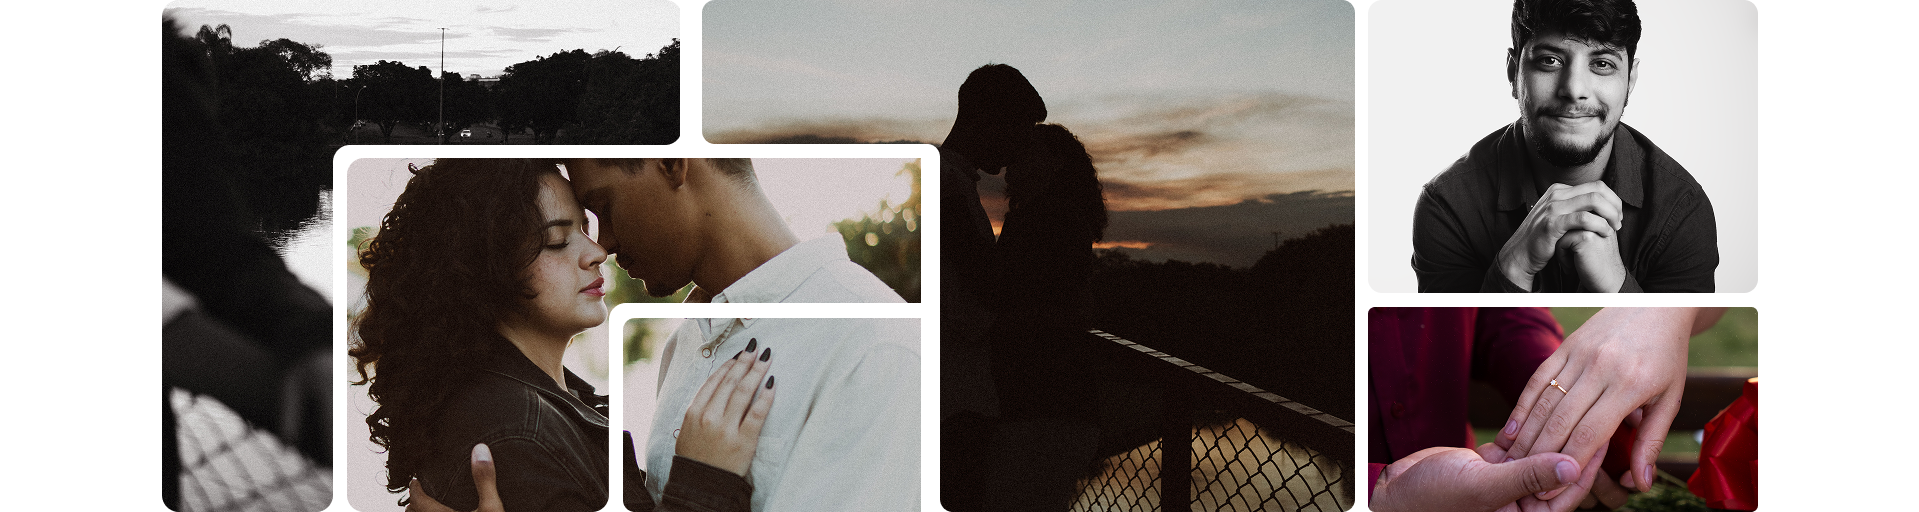
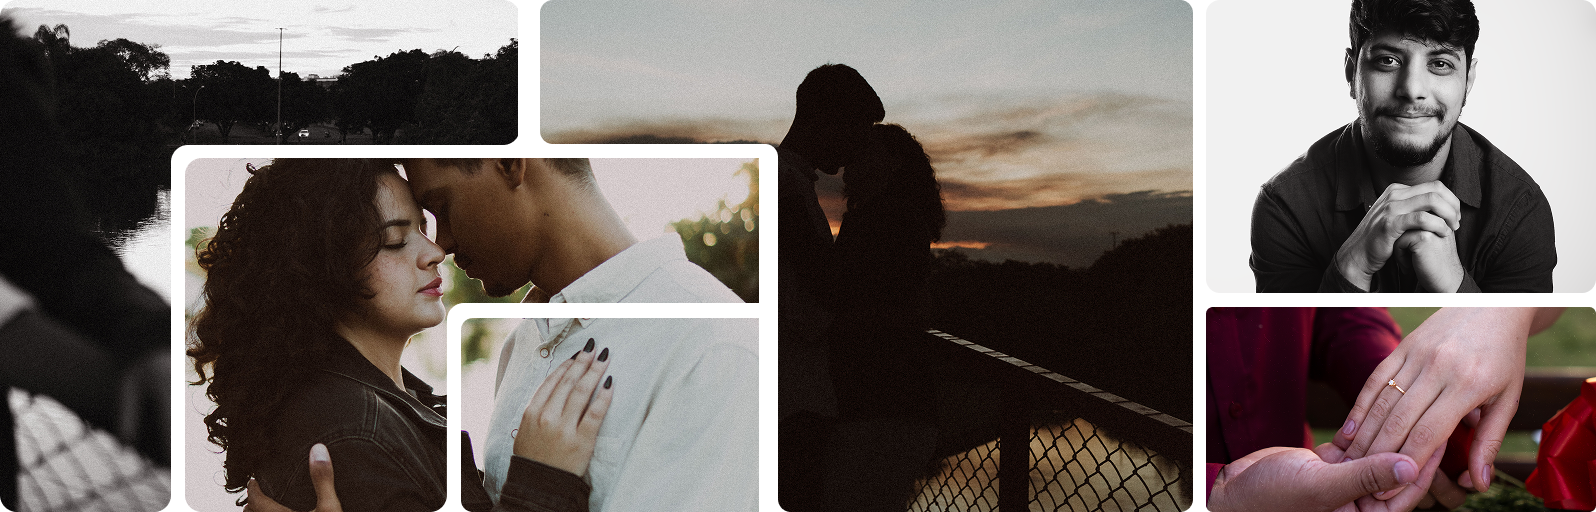
refactor

diff --git a/src/pages/Faq.tsx b/src/pages/Faq.tsx
@@ -44,31 +44,70 @@ export default function Faq() {
     setOpenFaq(openFaq === index ? null : index);
   };
 
+  // Dividindo as FAQs em duas partes
+  const faqsPart1 = faqs.slice(0, 4);
+  const faqsPart2 = faqs.slice(4);
+
   return (
-    <div className="mt-12 px-16">
+    <div className="mt-30 px-16">
       <div className="mb-6">
         <p className="text-gray-500">FAQ'S</p>
         <h1 className="text-4xl md:text-5xl">PERGUNTAS FREQUENTES</h1>
       </div>
-      <div className="grid grid-cols-1 md:grid-cols-2 gap-6">
-        {faqs.map((faq, index) => (
-          <div key={index} className="border p-4 rounded-lg shadow-sm">
+      <div className="flex flex-col md:flex-row">
+        {/* Primeira coluna com 4 perguntas */}
+        <div className="flex-1 border-r border-[#1C1C21]">
+          {faqsPart1.map((faq, index) => (
             <div
-              className="flex justify-between items-center cursor-pointer"
-              onClick={() => toggleFaq(index)}
+              key={index}
+              className={`border-t border-[#1C1C21] p-10  ${index === faqsPart1.length - 1 ? "border-t-0" : ""
+                } ${faq.pergunta === "How do you handle client consultations?" ? "border-b border-[#1C1C21]" : ""
+                }`}
             >
-              <h2 className="font-semibold text-lg">{faq.pergunta}</h2>
-              <FontAwesomeIcon
-                icon={openFaq === index ? faChevronUp : faChevronDown}
-                className="text-gray-500"
-                size="lg"
-              />
+              <div
+                className="flex justify-between items-center cursor-pointer"
+                onClick={() => toggleFaq(index)}
+              >
+                <h2 className="font-semibold text-lg">{faq.pergunta}</h2>
+                <FontAwesomeIcon
+                  icon={openFaq === index ? faChevronUp : faChevronDown}
+                  className="text-gray-500"
+                  size="lg"
+                />
+              </div>
+              <div className={`overflow-hidden transition-all duration-300 ${openFaq === index ? 'max-h-96' : 'max-h-0'}`}>
+                <p className="text-gray-600 mt-2">{faq.resposta}</p>
+              </div>
             </div>
-            {openFaq === index && (
-              <p className="text-gray-600 mt-2">{faq.resposta}</p>
-            )}
-          </div>
-        ))}
+          ))}
+        </div>
+
+        {/* Segunda coluna com 4 perguntas */}
+        <div className="flex-1">
+          {faqsPart2.map((faq, index) => (
+            <div
+              key={index + 4}
+              className={`border-t border-[#1C1C21] p-10 ${index === faqsPart2.length - 1 ? "border-t-0" : ""
+                } ${faq.pergunta === "Can I request specific shots?" ? "border-b border-[#1C1C21]" : ""
+                }`}
+            >
+              <div
+                className="flex justify-between items-center cursor-pointer"
+                onClick={() => toggleFaq(index + 4)}
+              >
+                <h2 className="font-semibold text-lg">{faq.pergunta}</h2>
+                <FontAwesomeIcon
+                  icon={openFaq === index + 4 ? faChevronUp : faChevronDown}
+                  className="text-gray-500"
+                  size="lg"
+                />
+              </div>
+              <div className={`overflow-hidden transition-all duration-300 ${openFaq === index + 4 ? 'max-h-96' : 'max-h-0'}`}>
+                <p className="text-gray-600 mt-2">{faq.resposta}</p>
+              </div>
+            </div>
+          ))}
+        </div>
       </div>
     </div>
   );

diff --git a/src/pages/Servicos.tsx b/src/pages/Servicos.tsx
@@ -11,11 +11,11 @@ export default function Servicos() {
     ];
 
     return (
-        <div className="mt-30 px-16">
+        <div className="mt-30 px-16 mb-30">
             <div>
                 <div className="flex border-b border-[#1C1C21] pb-12">
                     <div className="w-2/3">
-                        <p className="text-gray-300 text-lg">SERVIÇOS</p>
+                        <p className="text-gray-300 text-lg text-[#797C86] mb-2">SERVIÇOS</p>
                         <div className="flex itemns-center">
                             <h1 className="text-4xl md:text-5xl">
                                 MEUS SERVIÇOS DE FOTOGRAFIA
@@ -24,7 +24,7 @@ export default function Servicos() {
                     </div>
 
                     <div className="flex justify-end items-center gap-4 w-1/3">
-                        <div className="flex items-center p-2 rounded-full border border-gray-700 gap-2">
+                        <div className="flex items-center p-2 rounded-full border border-[#1C1C21] gap-2">
                             <button className="w-14 h-14 bg-[#232326] rounded-full flex items-center justify-center">
                                 <FontAwesomeIcon icon={faChevronLeft} className="text-white text-2xl" />
                             </button>
@@ -33,7 +33,7 @@ export default function Servicos() {
                             </button>
                         </div>
                         <div>
-                            <button>Ver todos os serviços</button>
+                            <button className="px-6 py-4 bg-[#1C1C21] text-white text-lg rounded hover:bg-blue-600 transition">Ver todos os serviços</button>
                         </div>
                     </div>
                 </div>
@@ -48,7 +48,7 @@ export default function Servicos() {
                                 Whether it's a wedding, corporate event, or milestone celebration, we're there to document every heartfelt moment.
                                 We blend into the background, ensuring natural and candid shots that reflect the emotions of the day.
                             </p>
-                            <p className="mb-4 text-white font-semibold">SERVIÇOS EM ALTA</p>
+                            <p className="mb-4 text-white text-base text-[#CACACE]">Serviços em alta</p>
                             <div>
                                 {servico.map((item, index) => (
                                     <div key={index} className="border rounded-xl p-4 mb-2 text-gray-300">

diff --git a/src/pages/Portfolio.tsx b/src/pages/Portfolio.tsx
@@ -25,15 +25,15 @@ export default function Portfolio() {
 
     return (
         <>
-            <div className="px-16 mt-20">
+            <div className="px-16 my-20">
                 <div>
                     <div className="w-full flex border-b border-[#1C1C21] pb-10 mb-10">
                         <div className="w-2/3">
-                            <p>PORTFÓLIO</p>
-                            <h1 className="text-4xl md:text-5xl">DESCUBRA MAIS SOBRE MINHAS FOTOGRAFIAS</h1>
+                            <p className="text-[#797C86]">PORTFÓLIO</p>
+                            <h1 className="text-4xl md:text-5xl">DESCUBRA MAIS SOBRE MINHAS <br /> FOTOGRAFIAS</h1>
                         </div>
                         <div className="flex justify-end items-center gap-4 w-1/3">
-                            <div className="flex items-center p-2 rounded-full border border-gray-700 gap-2">
+                            <div className="flex items-center p-2 rounded-full border border-[#1C1C21] gap-2">
                                 <button className="w-14 h-14 bg-[#232326] rounded-full flex items-center justify-center">
                                     <FontAwesomeIcon icon={faChevronLeft} className="text-white text-2xl" />
                                 </button>
@@ -60,7 +60,7 @@ export default function Portfolio() {
                                         <h2 className="text-lg font-semibold">{servico.titulo}</h2>
                                         <p className="text-gray-600">{servico.descricao}</p>
                                     </div>
-                                    <button className="ml-4 text-blue-500">
+                                    <button className="ml-4 text-white">
                                         Ver Projeto
                                     </button>
                                 </div>

diff --git a/src/pages/Sobre.tsx b/src/pages/Sobre.tsx
@@ -6,7 +6,7 @@ const Sobre = () => {
     return (
         <div className='px-6 md:px-16'>
             <div className="w-full border-b border-[#1C1C21] pb-12 mt-12 md:mt-42">
-                <div className="flex flex-col md:flex-row items-start">
+                <div className="flex flex-col md:flex-row items-center">
                     <div className="w-full md:w-1/2">
                         <h1 className="text-4xl md:text-5xl">
                             <span className="text-base">SOBRE</span>
@@ -14,7 +14,7 @@ const Sobre = () => {
                         <h1 className="text-4xl md:text-6xl">EU SOU ISRAEL CEDRAZ</h1>
                     </div>
                     <div className="w-full md:w-1/2 flex justify-center md:justify-end mt-6 md:mt-0">
-                        <button className="px-4 py-2 bg-blue-500 text-white rounded hover:bg-blue-600 transition">
+                        <button className="px-6 py-4 bg-[#1C1C21] text-white text-xl rounded hover:bg-blue-600 transition">
                             Saiba mais
                         </button>
                     </div>
@@ -22,7 +22,7 @@ const Sobre = () => {
             </div>
 
             <div className='w-full flex flex-col md:flex-row items-start mt-24'>
-                <div className='w-full md:w-1/2 flex justify-center'>
+                <div className='w-full md:w-1/2 flex'>
                     <img src={Isra} className='w-[95%] object-cover' alt="Israel Cedraz" />
                 </div>
                 <div className='w-full md:w-1/2 mt-8 md:mt-0 flex self-center'>

diff --git a/src/pages/Depoimentos.tsx b/src/pages/Depoimentos.tsx
@@ -8,7 +8,7 @@ export default function Depoimentos() {
     ]
     return (
         <>
-            <div className="mt-12 px-16">
+            <div className="mt-50 px-16">
                 <div className="border-b flex w-full mb-10">
                     <div className="w-1/2">
                         <p className="text-[#797C86]">DEPOIMENTOS</p>

diff --git a/src/pages/Home.tsx b/src/pages/Home.tsx
@@ -53,7 +53,7 @@ export default function Home() {
       </div>
 
       {/* Seção de Fotos */}
-      <div className="w-full">
+      <div className="w-full px-16">
         <img src={Fotos} alt="Fotos" className="w-full object-cover" />
       </div>
     </>
